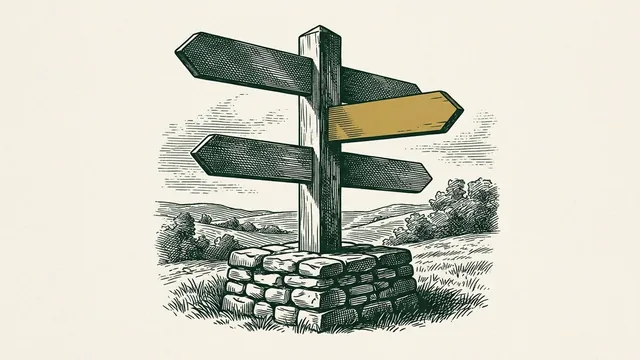
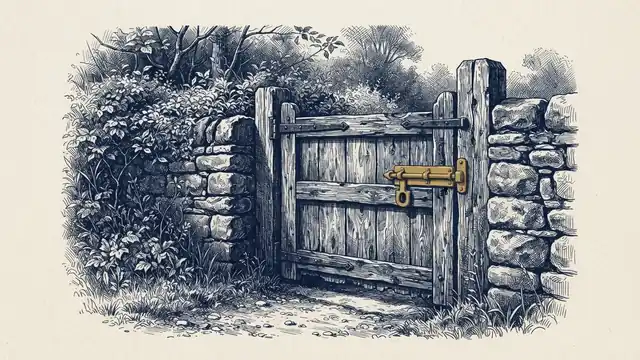
Letters: sync latest three (ep5 on top)

diff --git a/index.html b/index.html
@@ -533,26 +533,26 @@ a.case:hover .frame { transform: translateY(-3px); }
       <div class="head center-head"><div class="eyebrow wide">The letters</div><h2>What I&rsquo;ve been building</h2><p class="intro">Autonomy Architect, every Sunday.</p></div>
       <!-- BEGIN LETTERS (written by tools/letters_sync.py, do not edit by hand) -->
       <div class="blog">
-        <a class="post" href="https://theatosam.substack.com/p/hormozi-says-pick-one-channel-im" target="_blank" rel="noopener">
+        <a class="post" href="https://theatosam.substack.com/p/my-free-offer-got-4-yeses-out-of" target="_blank" rel="noopener">
           <div class="cover"><img src="/assets/img/letter-1.webp" width="640" height="360" alt="" loading="lazy"></div>
+          <h3>My free offer got 4 yeses out of 5. So I made it harder to say yes.</h3>
+          <p>Since early November I’ve been phoning local businesses about their websites. Of the five owners and managers I’ve reached, four said yes to a free preview of what their site...</p>
+          <span class="go">Read the letter</span>
+          <div class="by">Ato Sam<i>&bull;</i>22 November 2026</div>
+        </a>
+        <a class="post" href="https://theatosam.substack.com/p/hormozi-says-pick-one-channel-im" target="_blank" rel="noopener">
+          <div class="cover"><img src="/assets/img/letter-2.webp" width="640" height="360" alt="" loading="lazy"></div>
           <h3>Hormozi says pick one channel. I&rsquo;m running three until 15 December.</h3>
           <p>Hormozi says that under a million dollars a year you pick one channel, one avatar and one product. I picked mine in October. This week I’m running three.</p>
           <span class="go">Read the letter</span>
           <div class="by">Ato Sam<i>&bull;</i>15 November 2026</div>
         </a>
         <a class="post" href="https://theatosam.substack.com/p/free-is-still-a-big-ask" target="_blank" rel="noopener">
-          <div class="cover"><img src="/assets/img/letter-2.webp" width="640" height="360" alt="" loading="lazy"></div>
+          <div class="cover"><img src="/assets/img/letter-3.webp" width="640" height="360" alt="" loading="lazy"></div>
           <h3>Free is still a big ask</h3>
           <p>Since 23 October I’ve offered about 173 independent consultants a free install of Autonomous Mode, the system I run my own week on.</p>
           <span class="go">Read the letter</span>
           <div class="by">Ato Sam<i>&bull;</i>8 November 2026</div>
-        </a>
-        <a class="post" href="https://theatosam.substack.com/p/spam-on-day-one-1010-on-day-eight" target="_blank" rel="noopener">
-          <div class="cover"><img src="/assets/img/letter-3.webp" width="640" height="360" alt="" loading="lazy"></div>
-          <h3>Spam on day one. 10/10 on day eight.</h3>
-          <p>Last week I asked whether cold email needs money. A week on, my answer is still yes. But you have to start somewhere, money or not.</p>
-          <span class="go">Read the letter</span>
-          <div class="by">Ato Sam<i>&bull;</i>1 November 2026</div>
         </a>
       </div>
       <!-- END LETTERS -->
